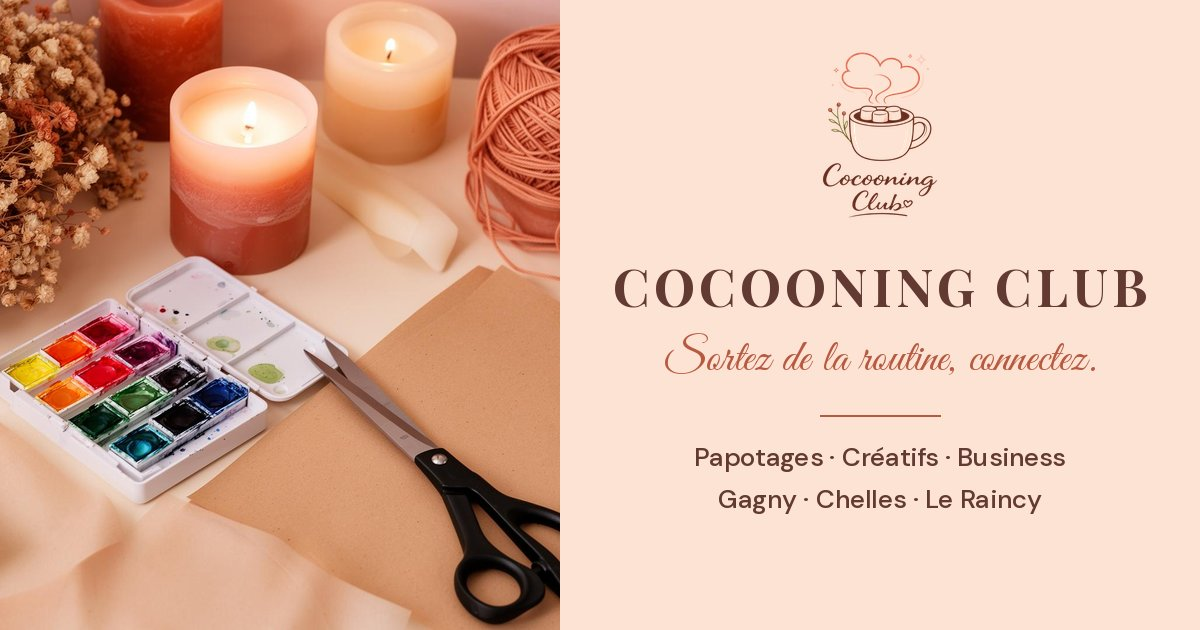
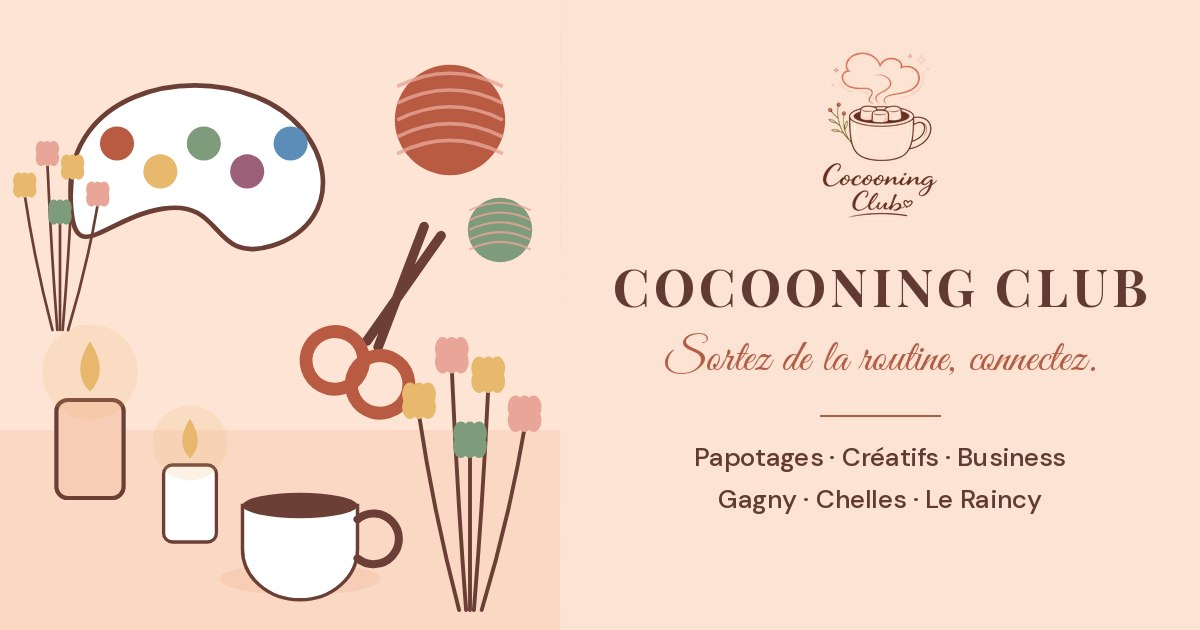
Images libres de droits : illustrations originales à la place des images d'origine inconnue
- 10 illustrations vectorielles (src/assets/illustrations, script scripts/generate-illustrations.py) pour les espaces, l'appel à rejoindre le club, les pages de connexion et « Notre histoire »
- image de partage (og-image) : moitié gauche remplacée
- les deux vraies photos du club (fondatrices, groupe) sont conservées
- anciennes images WebP supprimées, READMEs et CLAUDE.md mis à jour

Claude-Session: https://claude.ai/code/session_01TmHr7j8evoNE6MKK5xFThz

diff --git a/src/pages/NotreHistoire.tsx b/src/pages/NotreHistoire.tsx
@@ -4,18 +4,18 @@ import SiteHeader from "@/components/SiteHeader";
 import Footer from "@/components/Footer";
 import { Bouton, GrilleValeurs, Surtitre, TitreSection, type Valeur } from "@/components/vitrine";
 import { trackVisit } from "@/utils/trackVisit";
-import photoGroupe from "@/assets/histoire/groupe-chapeau.webp";
-import photoCarnet from "@/assets/histoire/carnet.webp";
-import photoRencontres from "@/assets/histoire/rencontres.webp";
-import photoIdees from "@/assets/histoire/idees.webp";
-import photoAventure from "@/assets/histoire/aventure.webp";
-import photoNeon from "@/assets/histoire/neon.webp";
+import photoGroupe from "@/assets/illustrations/histoire-groupe.svg";
+import photoCarnet from "@/assets/illustrations/histoire-carnet.svg";
+import photoRencontres from "@/assets/illustrations/polaroid-rencontres.svg";
+import photoIdees from "@/assets/illustrations/polaroid-idees.svg";
+import photoAventure from "@/assets/illustrations/polaroid-aventure.svg";
+import photoNeon from "@/assets/illustrations/histoire-neon.svg";
 
 // Photos « polaroïd » : légende manuscrite et légère rotation.
 const SOUVENIRS = [
-  { photo: photoRencontres, legende: "Des rencontres", alt: "Femmes réunies autour d'une table et de tasses de café", rotation: "-rotate-6" },
-  { photo: photoIdees, legende: "Des idées", alt: "Mains au travail sur une table d'atelier créatif", rotation: "rotate-2 translate-y-6" },
-  { photo: photoAventure, legende: "Une aventure collective", alt: "Femmes de dos, bras levés face au coucher de soleil", rotation: "rotate-3" },
+  { photo: photoRencontres, legende: "Des rencontres", alt: "Illustration de deux tasses de café et d'une bulle de conversation", rotation: "-rotate-6" },
+  { photo: photoIdees, legende: "Des idées", alt: "Illustration d'une ampoule et d'un carnet", rotation: "rotate-2 translate-y-6" },
+  { photo: photoAventure, legende: "Une aventure collective", alt: "Illustration de femmes de dos, bras levés face au coucher de soleil", rotation: "rotate-3" },
 ];
 
 const FONDATRICES = [
@@ -67,9 +67,9 @@ const NotreHistoire = () => {
         <section className="relative pt-20">
           <img
             src={photoGroupe}
-            width={548}
-            height={284}
-            alt="Cinq femmes de dos, bras dessus bras dessous, face à un coucher de soleil"
+            width={1200}
+            height={620}
+            alt="Illustration de cinq femmes de dos face à un coucher de soleil"
             className="h-64 w-full object-cover object-left sm:h-80 md:h-[26rem] md:w-[68%]"
           />
           <div className="relative mx-6 -mt-12 rounded-2xl bg-background p-8 shadow-lg md:absolute md:bottom-12 md:right-10 md:top-32 md:mx-0 md:mt-0 md:flex md:w-[40%] md:flex-col md:justify-center lg:p-12">
@@ -86,7 +86,7 @@ const NotreHistoire = () => {
           surtitre="Une belle aventure humaine"
           titre="Tout a commencé par une envie simple"
           photo={photoCarnet}
-          alt="Carnet ouvert sur « Une idée… Le Cocooning Club », à côté d'un café"
+          alt="Illustration d'un carnet ouvert, d'une tasse de café et d'un vase de fleurs séchées"
         >
           <p className={paragraphe}>
             Le Cocooning Club est né d'une envie simple, mais essentielle : créer du lien entre femmes, provoquer de
@@ -132,7 +132,7 @@ const NotreHistoire = () => {
           surtitre="Aujourd'hui"
           titre="Une communauté qui grandit chaque jour"
           photo={photoNeon}
-          alt="Néon « Plus qu'un club, une communauté de femmes inspirantes » au-dessus d'une table de café fleurie"
+          alt="Illustration d'un cœur lumineux au-dessus d'un vase de fleurs séchées et d'une tasse"
         >
           <p className={paragraphe}>
             Au fil des rencontres, le projet a pris forme naturellement. Il est devenu un lieu d'échange, de

diff --git a/src/pages/Index.tsx b/src/pages/Index.tsx
@@ -11,10 +11,10 @@ import PreInscriptionModal from "@/components/PreInscriptionModal";
 import { supabase } from "@/integrations/supabase/client";
 import photoFondatrices from "@/assets/accueil/fondatrices.webp";
 import photoGroupe from "@/assets/accueil/groupe.webp";
-import photoPapotages from "@/assets/accueil/papotages.webp";
-import photoCreatif from "@/assets/accueil/creatif.webp";
-import photoBusiness from "@/assets/accueil/business.webp";
-import photoAtelier from "@/assets/hero-workshop-960.webp";
+import photoPapotages from "@/assets/illustrations/papotages.svg";
+import photoCreatif from "@/assets/illustrations/creatif.svg";
+import photoBusiness from "@/assets/illustrations/business.svg";
+import photoAtelier from "@/assets/illustrations/hero-atelier.svg";
 import { ESPACES_PAR_SLUG } from "@/lib/espaces";
 import { trackVisit } from "@/utils/trackVisit";
 import { usePublicAteliers } from "@/hooks/usePublicAteliers";
@@ -181,7 +181,7 @@ const ESPACES = [
   {
     titre: "L'Espace Papotages",
     photo: photoPapotages,
-    alt: "Trois femmes discutent en souriant autour d'un café",
+    alt: "Illustration de deux tasses de café et de bulles de conversation",
     logo: ESPACES_PAR_SLUG.papotages.logo,
     description: "Des rencontres en toute simplicité pour échanger, partager et créer de nouveaux liens autour d'un café.",
     couleur: "bg-espace-papotages",
@@ -189,7 +189,7 @@ const ESPACES = [
   {
     titre: "L'Espace Créatif",
     photo: photoCreatif,
-    alt: "Mains qui assemblent fleurs séchées et papier lors d'un atelier créatif",
+    alt: "Illustration d'une palette d'aquarelle, de ciseaux et de fleurs séchées",
     logo: ESPACES_PAR_SLUG.creatifs.logo,
     description: "Des ateliers pour découvrir, créer et laisser parler son imagination, débutante ou passionnée.",
     couleur: "bg-espace-creatifs",
@@ -197,7 +197,7 @@ const ESPACES = [
   {
     titre: "L'Espace Business",
     photo: photoBusiness,
-    alt: "Table de coworking avec ordinateur portable, carnets et tasses",
+    alt: "Illustration d'un ordinateur portable, d'un carnet et d'une tasse de café",
     logo: ESPACES_PAR_SLUG.business.logo,
     description: "Un espace dédié aux entrepreneures pour échanger, s'entraider et faire avancer leurs projets ensemble.",
     couleur: "bg-espace-business",

diff --git a/src/pages/Calendrier.tsx b/src/pages/Calendrier.tsx
@@ -8,7 +8,7 @@ import PreInscriptionModal from "@/components/PreInscriptionModal";
 import SiteHeader from "@/components/SiteHeader";
 import Footer from "@/components/Footer";
 import { Bouton, Surtitre, TitreSection } from "@/components/vitrine";
-import photoAtelier from "@/assets/hero-workshop-960.webp";
+import photoAtelier from "@/assets/illustrations/hero-atelier.svg";
 import { googleMapsSearchUrl } from "@/utils/googleMaps";
 import { trackVisit } from "@/utils/trackVisit";
 import { usePublicAteliers } from "@/hooks/usePublicAteliers";
@@ -81,9 +81,9 @@ const Calendrier = () => {
           </div>
           <img
             src={photoAtelier}
-            width={960}
-            height={540}
-            alt="Table d'atelier créatif avec bougies allumées, palette d'aquarelle, ciseaux et pelote de laine"
+            width={1200}
+            height={675}
+            alt="Illustration d'une table d'atelier créatif : bougies, palette d'aquarelle, ciseaux et pelote de laine"
             className="h-56 w-full rounded-2xl object-cover shadow-md sm:h-72"
           />
         </section>

diff --git a/src/components/auth/AuthLayout.tsx b/src/components/auth/AuthLayout.tsx
@@ -2,7 +2,7 @@ import type { ReactNode } from "react";
 import { Link } from "react-router-dom";
 import { ArrowLeft } from "lucide-react";
 import { Surtitre } from "@/components/vitrine";
-import photoAtelier from "@/assets/hero-workshop-960.webp";
+import photoAtelier from "@/assets/illustrations/hero-atelier.svg";
 
 interface AuthLayoutProps {
   titre: string;
@@ -19,7 +19,7 @@ const AuthLayout = ({ titre, sousTitre, retour = { to: "/", libelle: "Retour au 
     <div className="relative hidden lg:block">
       <img
         src={photoAtelier}
-        alt="Table d'atelier créatif avec bougies allumées, palette d'aquarelle, ciseaux et pelote de laine"
+        alt=""
         className="absolute inset-0 h-full w-full object-cover"
       />
     </div>

diff --git a/scripts/generate-illustrations.py b/scripts/generate-illustrations.py
@@ -1,0 +1,129 @@
+# Génère les illustrations vectorielles du site (src/assets/illustrations/*.svg).
+# Dessinées pour le club à partir de formes simples et de la palette de la charte : aucun droit à vérifier.
+#   python3 scripts/generate-illustrations.py
+import os
+import os
+OUT=os.path.join(os.path.dirname(os.path.abspath(__file__)),'..','src','assets','illustrations')
+CREME='#fff6ee'; PECHE='#fde4d4'; PECHE2='#f8cdb6'; TERRA='#b95b43'; TERRA_D='#9a4936'
+SAUGE='#7e9b7b'; SAUGE_C='#c9d9c4'; MAUVE='#9b5f78'; MAUVE_C='#e6cbd8'; BRUN='#6b3f36'; OR='#e8b86d'; BLANC='#ffffff'; ROSE='#e9a597'
+
+def svg(w,h,body,bg=None):
+    fond=f'<rect width="{w}" height="{h}" fill="{bg}"/>' if bg else ''
+    return f'<svg xmlns="http://www.w3.org/2000/svg" viewBox="0 0 {w} {h}" width="{w}" height="{h}" role="img">{fond}{body}</svg>'
+
+def tasse(x,y,s=1,couleur=BLANC,cafe=BRUN,vapeur=True):
+    v=''
+    if vapeur:
+        v=f'<path d="M{x-12*s} {y-62*s} q{-10*s} {-14*s} 0 {-26*s} t0 {-26*s}" fill="none" stroke="{TERRA}" stroke-width="{4*s}" stroke-linecap="round" opacity=".55"/><path d="M{x+14*s} {y-66*s} q{-10*s} {-14*s} 0 {-26*s} t0 {-26*s}" fill="none" stroke="{TERRA}" stroke-width="{4*s}" stroke-linecap="round" opacity=".55"/>'
+    return (f'<ellipse cx="{x}" cy="{y+34*s}" rx="{70*s}" ry="{14*s}" fill="{PECHE2}"/>'
+            f'<path d="M{x-50*s} {y-30*s} h{100*s} v{38*s} a{50*s} {44*s} 0 0 1 {-100*s} 0z" fill="{couleur}" stroke="{BRUN}" stroke-width="{3*s}"/>'
+            f'<ellipse cx="{x}" cy="{y-30*s}" rx="{50*s}" ry="{11*s}" fill="{cafe}"/>'
+            f'<path d="M{x+50*s} {y-18*s} a{22*s} {22*s} 0 1 1 0 {34*s}" fill="none" stroke="{BRUN}" stroke-width="{7*s}" stroke-linecap="round"/>'+v)
+
+def plante(x,y,s=1,pot=TERRA):
+    f=''
+    for a,l in [(-40,70),(-15,95),(10,100),(35,75),(0,60)]:
+        f+=f'<g transform="translate({x} {y-30*s}) rotate({a})"><path d="M0 0 C{-14*s} {-l*s*.5} {-8*s} {-l*s} 0 {-l*s} C{8*s} {-l*s} {14*s} {-l*s*.5} 0 0z" fill="{SAUGE}"/><path d="M0 0 V{-l*s*.85}" stroke="{SAUGE_C}" stroke-width="{2*s}"/></g>'
+    return f+f'<path d="M{x-28*s} {y-30*s} h{56*s} l{-8*s} {52*s} h{-40*s}z" fill="{pot}"/><rect x="{x-32*s}" y="{y-36*s}" width="{64*s}" height="{10*s}" rx="{4*s}" fill="{TERRA_D}"/>'
+
+def fleurs_seches(x,y,s=1):
+    t=''
+    for i,(dx,h,c) in enumerate([(-28,150,OR),(-10,185,ROSE),(10,170,OR),(30,140,ROSE),(0,120,SAUGE)]):
+        t+=f'<path d="M{x+dx*s*.3} {y} Q{x+dx*s} {y-h*s*.5} {x+dx*s*1.4} {y-h*s}" stroke="{BRUN}" stroke-width="{3*s}" fill="none" stroke-linecap="round"/>'
+        for k in range(6):
+            t+=f'<ellipse cx="{x+dx*s*1.4+ (k%3-1)*7*s}" cy="{y-h*s+ (k//3)*-10*s - 6*s}" rx="{6*s}" ry="{9*s}" fill="{c}"/>'
+    return t
+
+def vase(x,y,s=1):
+    return f'<path d="M{x-30*s} {y-60*s} q{-14*s} {50*s} 0 {90*s} h{60*s} q{14*s} {-40*s} 0 {-90*s}z" fill="{BLANC}" stroke="{BRUN}" stroke-width="{3*s}" opacity=".95"/>'+fleurs_seches(x,y-56*s,s)
+
+def bougie(x,y,s=1,c=PECHE2):
+    return (f'<rect x="{x-24*s}" y="{y-50*s}" width="{48*s}" height="{70*s}" rx="{8*s}" fill="{c}" stroke="{BRUN}" stroke-width="{3*s}"/>'
+            f'<path d="M{x} {y-92*s} q{14*s} {22*s} 0 {36*s} q{-14*s} {-14*s} 0 {-36*s}z" fill="{OR}"/><circle cx="{x}" cy="{y-70*s}" r="{34*s}" fill="{OR}" opacity=".18"/>')
+
+def pelote(x,y,s=1,c=TERRA):
+    t=f'<circle cx="{x}" cy="{y}" r="{46*s}" fill="{c}"/>'
+    for i in range(5):
+        t+=f'<path d="M{x-44*s} {y+(i-2)*14*s} q{44*s} {-22*s} {88*s} 0" fill="none" stroke="{ROSE}" stroke-width="{3*s}" opacity=".8"/>'
+    return t
+
+def palette(x,y,s=1):
+    t=f'<path d="M{x-90*s} {y} c0 {-60*s} {70*s} {-80*s} {120*s} {-60*s} c{50*s} {20*s} {60*s} {80*s} {10*s} {96*s} c{-40*s} {12*s} {-30*s} {-30*s} {-70*s} {-24*s} c{-40*s} {6*s} {-60*s} {44*s} {-60*s} {-12*s}z" fill="{BLANC}" stroke="{BRUN}" stroke-width="{3*s}"/>'
+    for i,c in enumerate([TERRA,OR,SAUGE,MAUVE,'#5b8db8']):
+        t+=f'<circle cx="{x-60*s+i*28*s}" cy="{y-30*s+(0 if i%2==0 else 18*s)}" r="{11*s}" fill="{c}"/>'
+    return t
+
+def ciseaux(x,y,s=1,rot=-25):
+    return f'<g transform="translate({x} {y}) rotate({rot}) scale({s})"><path d="M-6 -70 L4 10 M6 -70 L-4 10" stroke="{BRUN}" stroke-width="6" stroke-linecap="round"/><circle cx="-16" cy="30" r="18" fill="none" stroke="{TERRA}" stroke-width="8"/><circle cx="16" cy="30" r="18" fill="none" stroke="{TERRA}" stroke-width="8"/></g>'
+
+def carnet(x,y,s=1,coeur=True):
+    t=f'<g transform="translate({x} {y}) rotate(-6) scale({s})"><rect x="-120" y="-80" width="240" height="160" rx="10" fill="{BLANC}" stroke="{BRUN}" stroke-width="4"/><rect x="-120" y="-80" width="26" height="160" rx="8" fill="{TERRA}"/>'
+    for i in range(5): t+=f'<path d="M-70 {-46+i*24} h150" stroke="{PECHE2}" stroke-width="3" stroke-linecap="round"/>'
+    if coeur: t+=f'<path d="M30 40 c-14 -16 -34 4 0 26 c34 -22 14 -42 0 -26z" fill="{TERRA}" opacity=".8"/>'
+    return t+'</g>'
+
+def ordinateur(x,y,s=1):
+    return (f'<g transform="translate({x} {y}) scale({s})"><path d="M-130 70 h260 l20 18 h-300z" fill="{BRUN}"/><rect x="-110" y="-90" width="220" height="160" rx="10" fill="{BRUN}"/><rect x="-98" y="-78" width="196" height="136" rx="4" fill="{PECHE}"/>'
+            f'<rect x="-84" y="-62" width="80" height="10" rx="4" fill="{MAUVE}"/><rect x="-84" y="-42" width="150" height="8" rx="4" fill="{MAUVE_C}"/><rect x="-84" y="-26" width="120" height="8" rx="4" fill="{MAUVE_C}"/><path d="M-84 40 l30 -30 l24 18 l36 -40 l40 52z" fill="{SAUGE}" opacity=".8"/></g>')
+
+def ampoule(x,y,s=1):
+    return (f'<g transform="translate({x} {y}) scale({s})"><circle cx="0" cy="0" r="60" fill="{OR}" opacity=".25"/><path d="M0 -44 a32 32 0 0 1 18 58 v14 h-36 v-14 a32 32 0 0 1 18 -58z" fill="{OR}" stroke="{BRUN}" stroke-width="4"/>'
+            f'<rect x="-14" y="30" width="28" height="9" rx="3" fill="{BRUN}"/><rect x="-10" y="42" width="20" height="8" rx="3" fill="{BRUN}"/></g>')
+
+def bulles(x,y,s=1):
+    return (f'<g transform="translate({x} {y}) scale({s})"><path d="M0 0 h110 a20 20 0 0 1 20 20 v28 a20 20 0 0 1 -20 20 h-70 l-26 22 v-22 h-14 a20 20 0 0 1 -20 -20 v-28 a20 20 0 0 1 20 -20z" fill="{BLANC}" stroke="{TERRA}" stroke-width="4"/>'
+            f'<path d="M60 52 c-14 -16 -34 4 0 26 c34 -22 14 -42 0 -26z" transform="translate(-6 -22) scale(.9)" fill="{TERRA}"/></g>')
+
+def personne(x,y,s,robe,cheveux,chapeau=False,bras_leves=False,skin='#f2c8a8'):
+    t=f'<g transform="translate({x} {y}) scale({s})">'
+    t+=f'<path d="M-34 0 C-34 -90 -22 -120 0 -120 C22 -120 34 -90 34 0z" fill="{robe}"/>'
+    if bras_leves:
+        t+=f'<path d="M-26 -100 L-52 -170" stroke="{robe}" stroke-width="16" stroke-linecap="round"/><path d="M26 -100 L52 -170" stroke="{robe}" stroke-width="16" stroke-linecap="round"/><circle cx="-52" cy="-174" r="8" fill="{skin}"/><circle cx="52" cy="-174" r="8" fill="{skin}"/>'
+    t+=f'<circle cx="0" cy="-142" r="22" fill="{cheveux}"/><path d="M-20 -150 C-20 -170 20 -170 20 -150 L20 -90 L-20 -90z" fill="{cheveux}"/><ellipse cx="0" cy="-138" rx="15" ry="18" fill="{skin}" opacity=".0"/>'
+    if chapeau: t+=f'<ellipse cx="0" cy="-160" rx="38" ry="8" fill="#c9a06a"/><path d="M-20 -160 q20 -34 40 0z" fill="#b88a52"/>'
+    return t+'</g>'
+
+def paysage_coucher(w,h):
+    t=f'<defs><linearGradient id="ciel" x1="0" y1="0" x2="0" y2="1"><stop offset="0" stop-color="#f6c3a4"/><stop offset=".55" stop-color="#fbd9bf"/><stop offset="1" stop-color="#fde9d6"/></linearGradient></defs><rect width="{w}" height="{h}" fill="url(#ciel)"/>'
+    t+=f'<circle cx="{w*.72}" cy="{h*.52}" r="{h*.16}" fill="{OR}" opacity=".85"/>'
+    t+=f'<path d="M0 {h*.62} Q{w*.2} {h*.46} {w*.4} {h*.62} T{w*.8} {h*.6} T{w} {h*.55} V{h} H0z" fill="{SAUGE_C}"/><path d="M0 {h*.74} Q{w*.25} {h*.62} {w*.5} {h*.76} T{w} {h*.7} V{h} H0z" fill="{SAUGE}"/><path d="M0 {h*.88} Q{w*.3} {h*.8} {w*.6} {h*.9} T{w} {h*.86} V{h} H0z" fill="#5f7f5c"/>'
+    return t
+
+FICHIERS={}
+# 1. Atelier créatif : vue de dessus
+w,h=1200,675
+corps=(f'<rect width="{w}" height="{h}" fill="{PECHE}"/><rect x="0" y="470" width="{w}" height="205" fill="{PECHE2}" opacity=".5"/>'
+  f'<rect x="420" y="170" width="380" height="300" rx="10" transform="rotate(-4 610 320)" fill="#d9b48c" stroke="{BRUN}" stroke-width="3"/>'
+  + bougie(130,420,1.5) + bougie(250,470,1.2,BLANC) + pelote(980,200,1.8) + pelote(1090,330,1.1,SAUGE) + palette(330,250,1.6)
+  + ciseaux(760,430,1.7,30) + fleurs_seches(1010,640,1.4) + fleurs_seches(120,200,1.0) + tasse(650,560,1.0,BLANC,BRUN,False))
+FICHIERS['hero-atelier.svg']=svg(w,h,corps)
+# 2. Papotages
+w,h=800,480
+FICHIERS['papotages.svg']=svg(w,h,f'<rect width="{w}" height="{h}" fill="{PECHE}"/><rect y="330" width="{w}" height="150" fill="{PECHE2}" opacity=".6"/>'+plante(90,350,1.6)+bulles(150,40,1.2)+bulles(470,90,1.0)+tasse(280,320,1.5)+tasse(540,330,1.5,MAUVE_C)+plante(730,360,1.2,MAUVE))
+# 3. Créatif
+FICHIERS['creatif.svg']=svg(w,h,f'<rect width="{w}" height="{h}" fill="#e8efe3"/><rect y="340" width="{w}" height="140" fill="{SAUGE_C}" opacity=".7"/>'+palette(260,260,2.0)+ciseaux(540,300,1.8,25)+fleurs_seches(690,430,1.6)+pelote(110,420,1.1)+bougie(430,420,0.9))
+# 4. Business
+FICHIERS['business.svg']=svg(w,h,f'<rect width="{w}" height="{h}" fill="#f1e3ea"/><rect y="340" width="{w}" height="140" fill="{MAUVE_C}" opacity=".7"/>'+ordinateur(330,260,1.5)+carnet(640,380,0.7)+tasse(120,380,1.1,BLANC)+ampoule(660,110,1.1)+plante(740,400,1.0,MAUVE))
+# 5. Histoire hero : cinq femmes de dos, coucher de soleil
+w,h=1200,620
+t=paysage_coucher(w,h)
+cols=[('#e9d8c8','#4a2e22'),('#d8a58a','#7a4a2a'),('#c9805e','#2f1d16'),('#8fb0c9','#3a2a1e'),('#f2e6d8','#a1683a')]
+for i,(rb,ch) in enumerate(cols):
+    t+=personne(260+i*170,560,2.0,rb,ch,chapeau=(i==3))
+FICHIERS['histoire-groupe.svg']=svg(w,h,t)
+# 6. Carnet
+w,h=800,480
+FICHIERS['histoire-carnet.svg']=svg(w,h,f'<rect width="{w}" height="{h}" fill="{PECHE}"/><rect y="340" width="{w}" height="140" fill="#d9b48c" opacity=".7"/>'+carnet(300,260,1.5)+tasse(600,330,1.4)+vase(720,350,1.2))
+# 7. Néon : cœur lumineux + fleurs
+w,h=800,512
+FICHIERS['histoire-neon.svg']=svg(w,h,f'<rect width="{w}" height="{h}" fill="#6b4a40"/><rect y="400" width="{w}" height="112" fill="#8a6a56"/>'
+  f'<g fill="none" stroke="{OR}" stroke-linecap="round" stroke-linejoin="round"><path d="M400 300 C250 200 280 90 400 150 C520 90 550 200 400 300z" stroke-width="18" opacity=".25"/><path d="M400 300 C250 200 280 90 400 150 C520 90 550 200 400 300z" stroke-width="7"/></g>'
+  +vase(300,440,1.6)+plante(660,430,1.4,TERRA)+tasse(500,420,1.1))
+# 8-10. Polaroïds
+w,h=480,480
+FICHIERS['polaroid-rencontres.svg']=svg(w,h,f'<rect width="{w}" height="{h}" fill="{PECHE}"/>'+bulles(60,60,1.3)+tasse(140,330,1.4)+tasse(340,340,1.4,MAUVE_C))
+FICHIERS['polaroid-idees.svg']=svg(w,h,f'<rect width="{w}" height="{h}" fill="#f6ecc9"/>'+ampoule(240,150,1.7)+carnet(240,360,1.0))
+FICHIERS['polaroid-aventure.svg']=svg(w,h,paysage_coucher(w,h)+''.join(personne(110+i*130,470,1.35,rb,ch,bras_leves=True) for i,(rb,ch) in enumerate(cols[:3])))
+for n,c in FICHIERS.items():
+    open(os.path.join(OUT,n),'w').write(c)
+print(len(FICHIERS),'fichiers')

diff --git a/CLAUDE.md b/CLAUDE.md
@@ -12,7 +12,7 @@ Terminer le message à l'utilisatrice par ces deux phrases (avec le vrai hash du
 
 
 - **Mentions légales** (obligatoires, loi LCEN) : page à créer avec éditeur (nom, adresse, statut juridique du club), directeur de publication et hébergeur (Vercel). L'utilisateur a toutes les infos mais veut traiter ce point plus tard.
-- **Photos de l'accueil et de « Notre histoire »** : provisoires (découpées dans les maquettes, basse définition), à remplacer par les vraies photos du club, cf. `src/assets/accueil/README.md` et `src/assets/histoire/README.md`. Portraits des 5 fondatrices à fournir (initiales en attendant).
+- **Photos du site (24/10)** : les images d'origine inconnue (découpes de maquettes en basse définition) ont été remplacées par des illustrations vectorielles originales, `src/assets/illustrations/` (README et script `scripts/generate-illustrations.py`), libres de droits. Restent deux vraies photos du club (`src/assets/accueil/fondatrices.webp` et `groupe.webp`). À faire plus tard : vraies photos d'ateliers (fournies par le club) ou photos libres de droits (Unsplash / Pexels / Pixabay : ces sites sont bloqués dans l'environnement de la session, il faudrait autoriser les hôtes dans les paramètres réseau) ; portraits des 5 fondatrices à fournir (initiales en attendant).
 - **Google Analytics 4 + bannière cookie** : reporté à plus tard par l'utilisateur. Il faudra son identifiant de mesure `G-XXXXXXXXXX`.
 
 - **Bulletin signé à importer (mis de côté le 23/10)** : l'utilisatrice laisse ce sujet de côté, ne plus en parler ni le proposer. Rien à coder : les données du bulletin restent saisies dans « Ajouter une adhésion » et affichées dans « Mon adhésion ».

diff --git a/src/assets/accueil/README.md b/src/assets/accueil/README.md
@@ -1,10 +1,8 @@
 # Photos de la page d'accueil
 
-Provisoires, sauf `groupe.webp` et `fondatrices.webp` : découpées dans la maquette de la page d'accueil (basse
-définition, 270 à 500 px de large). À remplacer par les vraies photos du club
-en gardant les mêmes noms de fichiers (WebP, ~1200 px de large pour
-`rencontre` et `groupe`, ~800 px pour les espaces).
+Seules deux vraies photos du club sont ici :
 
-- `fondatrices.webp` : hero. Vraie photo détourée des cinq femmes (fournie par le club) composée sur un fond aux couleurs de la charte ; le texte « Plus qu'un club… » est du vrai texte posé par-dessus dans `Index.tsx`.
-- `papotages.webp`, `creatif.webp`, `business.webp` : cartes « Trois univers ».
-- `groupe.webp` : section « Notre histoire » (vraie photo des cinq fondatrices, fournie par le club, 4:3 ; ne plus la recadrer en portrait : les deux femmes aux extrémités seraient coupées).
+- `fondatrices.webp` : hero. Photo détourée des cinq fondatrices (fournie par le club) composée sur un fond aux couleurs de la charte ; le texte « Plus qu'un club… » est du vrai texte posé par-dessus dans `Index.tsx`.
+- `groupe.webp` : section « Notre histoire » (photo des cinq fondatrices fournie par le club, 4:3 ; ne plus la recadrer en portrait : les deux femmes aux extrémités seraient coupées).
+
+Les images des trois espaces (cartes « Trois univers ») et l'image de l'appel à rejoindre le club sont des **illustrations originales** dans `src/assets/illustrations/` (voir son README) ; elles pourront être remplacées par de vraies photos d'ateliers.

diff --git a/src/assets/illustrations/README.md b/src/assets/illustrations/README.md
@@ -1,0 +1,18 @@
+# Illustrations du site
+
+Illustrations vectorielles **originales**, dessinées pour le club (formes simples, palette de la charte). Aucun droit à
+vérifier, aucune attribution à afficher, nettes à toutes les tailles. Elles remplacent des images dont l'origine n'était pas connue.
+
+| Fichier | Où |
+|---|---|
+| `hero-atelier.svg` | Calendrier, accueil (appel à rejoindre le club), pages de connexion |
+| `papotages.svg`, `creatif.svg`, `business.svg` | Accueil, cartes des trois espaces |
+| `histoire-groupe.svg`, `histoire-carnet.svg`, `histoire-neon.svg` | Page « Notre histoire » |
+| `polaroid-rencontres.svg`, `polaroid-idees.svg`, `polaroid-aventure.svg` | Page « Notre histoire », polaroïds |
+
+Elles sont générées par `scripts/generate-illustrations.py` (modifier le script, puis le relancer). L'image de partage
+`public/og-image.jpg` reprend le même style pour sa moitié gauche.
+
+Pour remplacer une illustration par une vraie photo : mettre le fichier (WebP, ~1200 px) à côté et changer l'import dans la page.
+Photos libres de droits : Unsplash, Pexels ou Pixabay (usage commercial permis, attribution non obligatoire) ; noter la source et la
+licence dans ce fichier.

diff --git a/src/assets/histoire/README.md b/src/assets/histoire/README.md
@@ -1,15 +1,2 @@
-# Photos de la page « Notre histoire »
-
-Provisoires : découpées dans la maquette (très basse définition, 110 à
-550 px de large). À remplacer par les vraies photos du club en gardant les
-mêmes noms de fichiers (WebP, ~1200 px de large, ~600 px pour les polaroïds).
-
-- `groupe-chapeau.webp` : hero.
-- `carnet.webp` : « Tout a commencé par une envie simple » (le carnet de la
-  maquette porte la faute « Coconing »).
-- `rencontres.webp`, `idees.webp`, `aventure.webp` : polaroïds « Au fil des rencontres ».
-- `neon.webp` : « Une communauté qui grandit chaque jour ».
-
-Les portraits des fondatrices ne sont pas repris de la maquette (visages
-générés, pas les vraies personnes) : des initiales les remplacent en
-attendant les vraies photos.
+Les images de la page « Notre histoire » sont des illustrations originales : voir `src/assets/illustrations/README.md`.
+Ce dossier est volontairement vide ; y déposer les vraies photos du club le jour où elles seront fournies.
